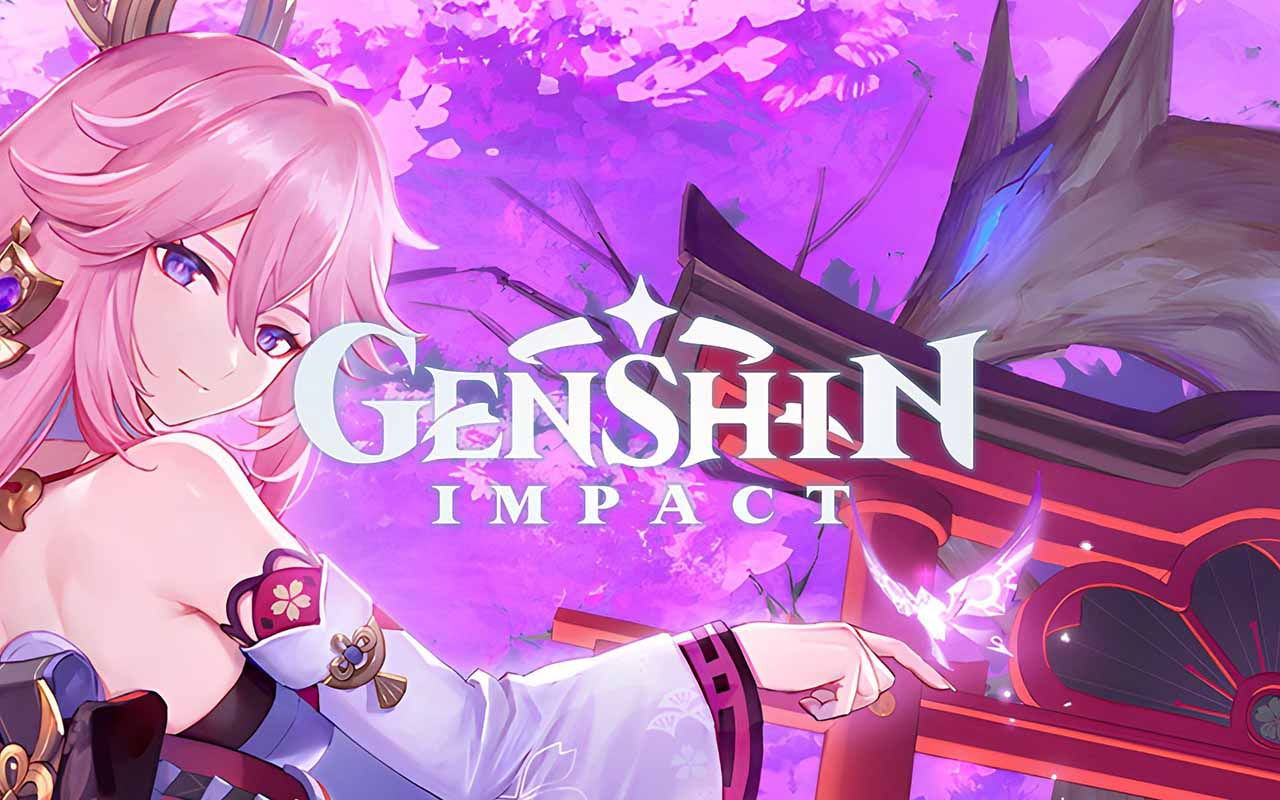
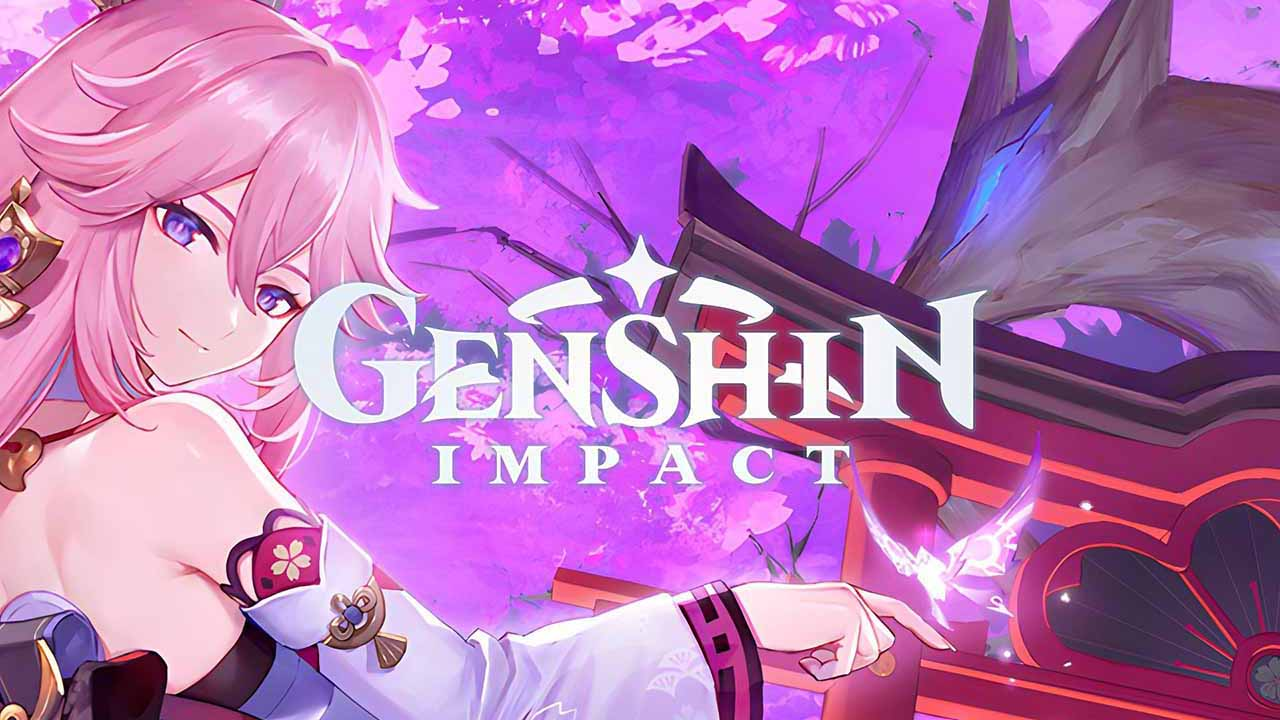
index page

diff --git a/src/routes/index.svelte b/src/routes/index.svelte
@@ -1,8 +1,4 @@
-<style>
-	.titleImg {
-		height: 800px;
-	}
-</style>
+
 
 
 <svelte:component
